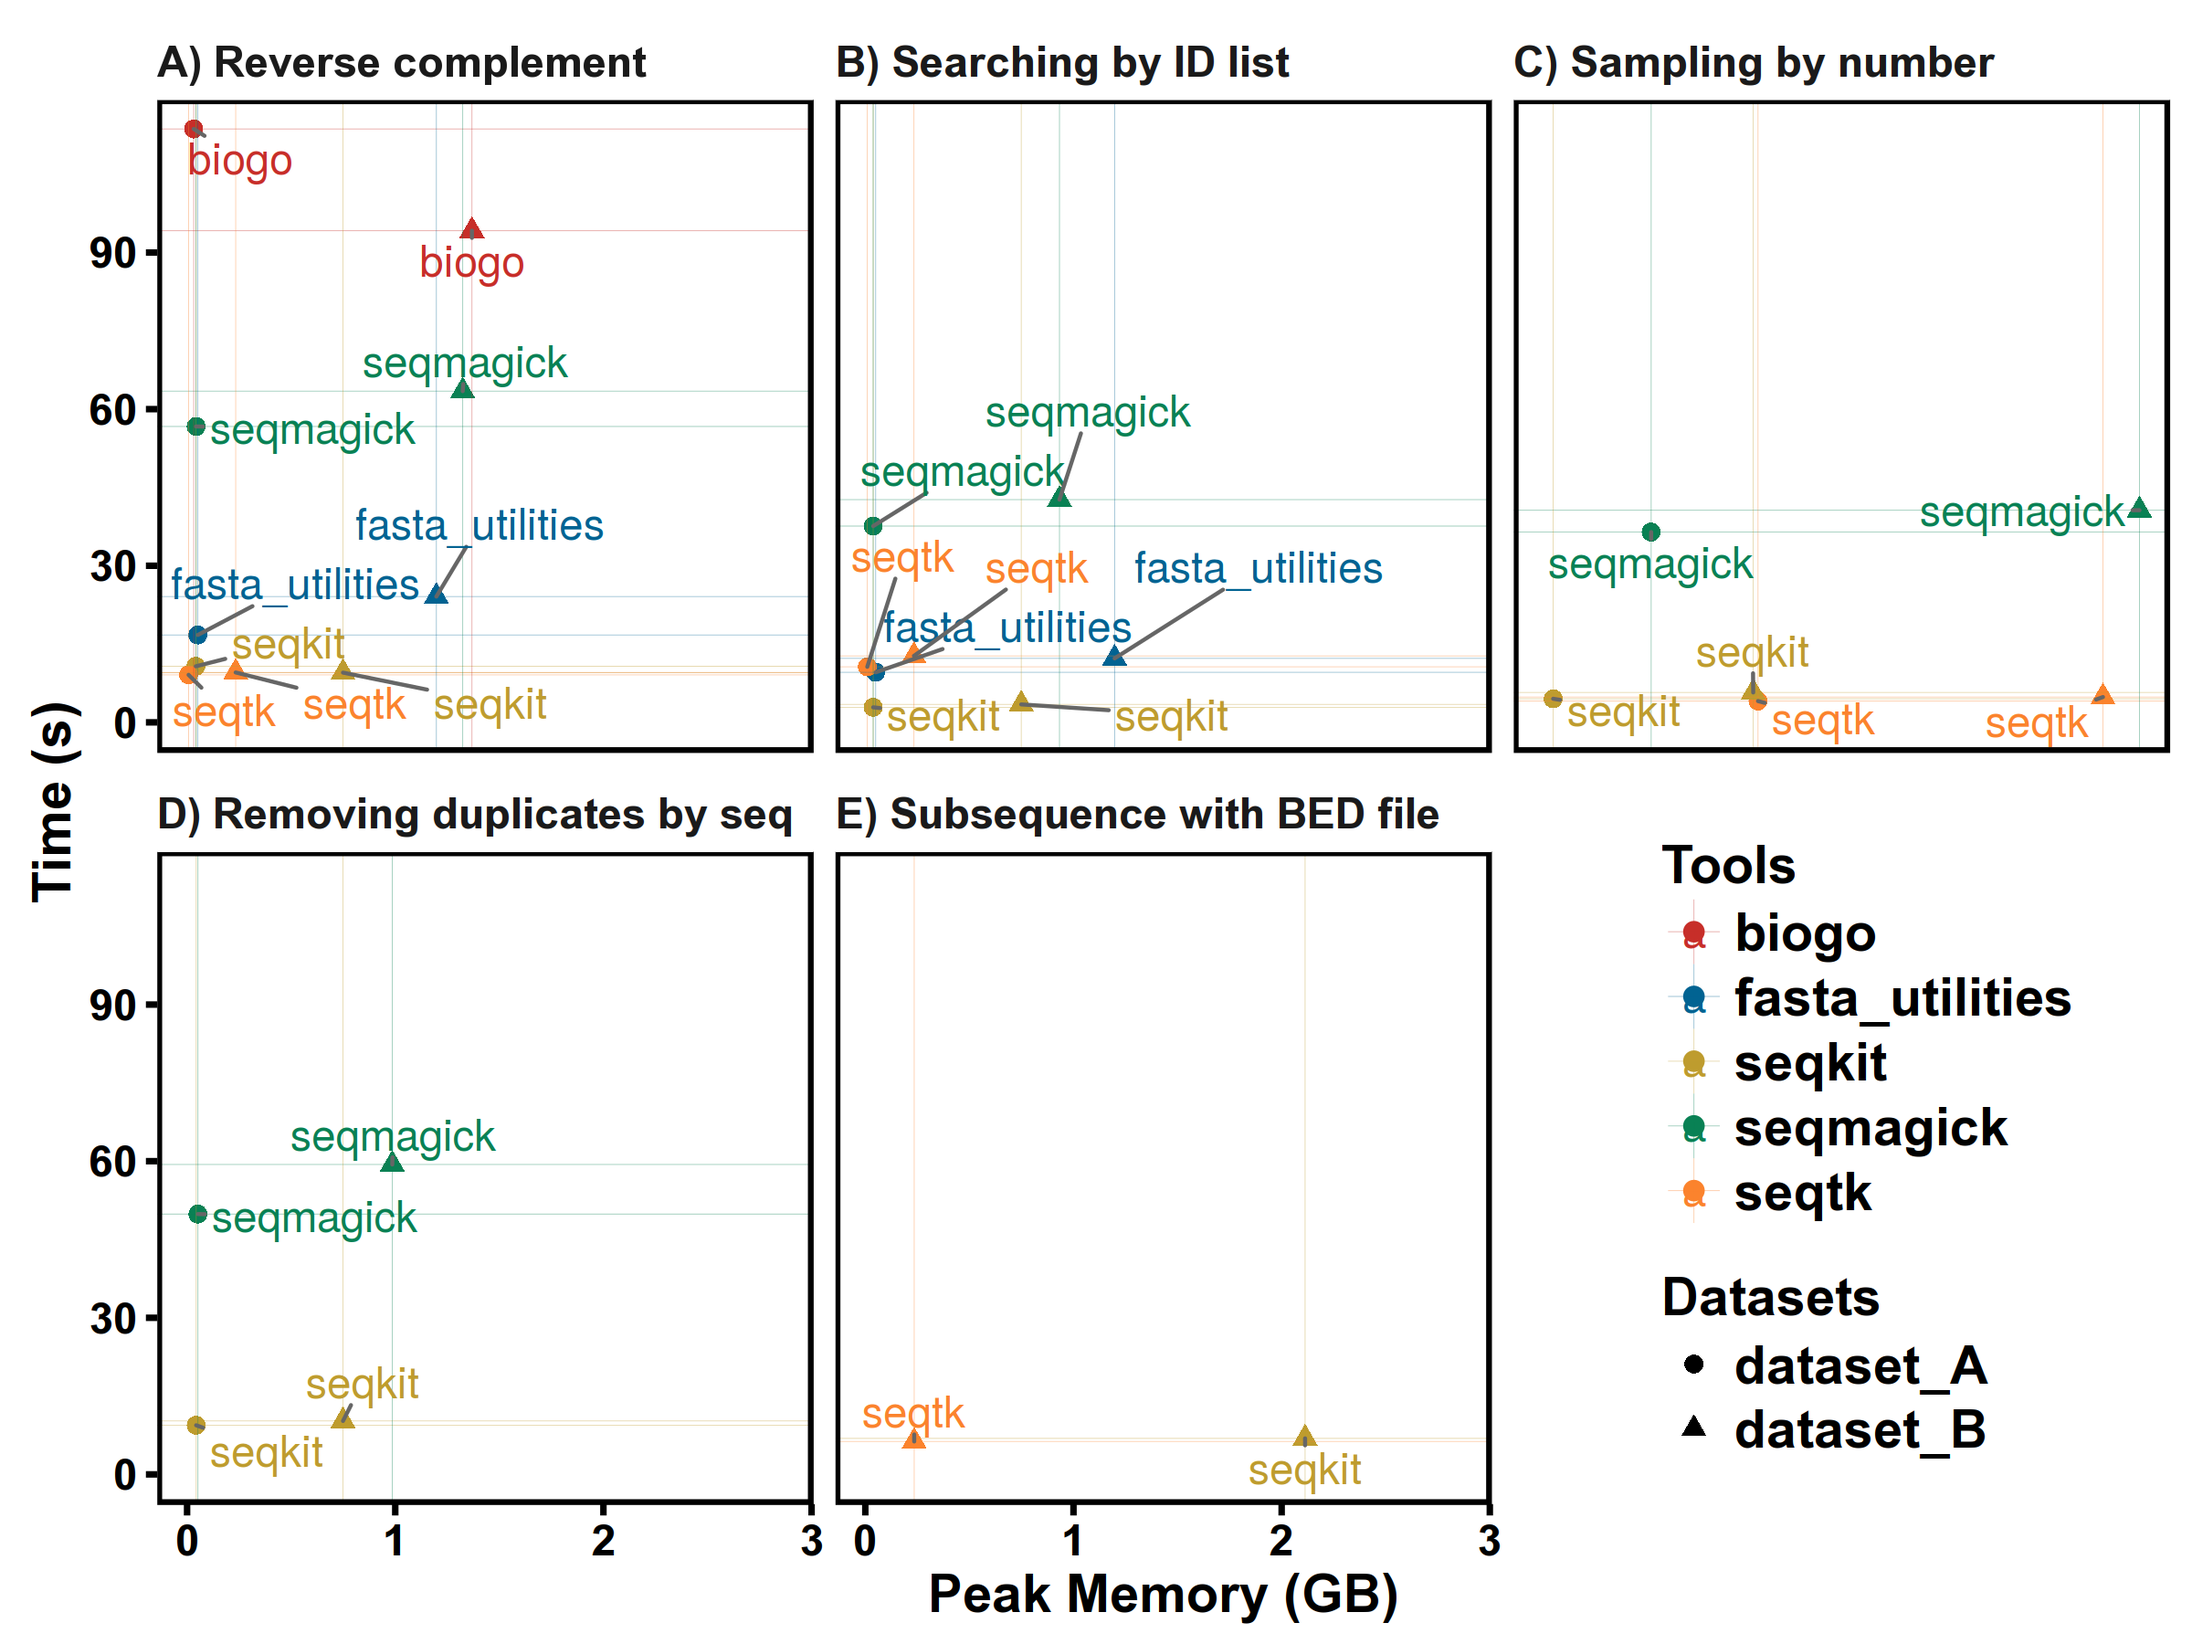
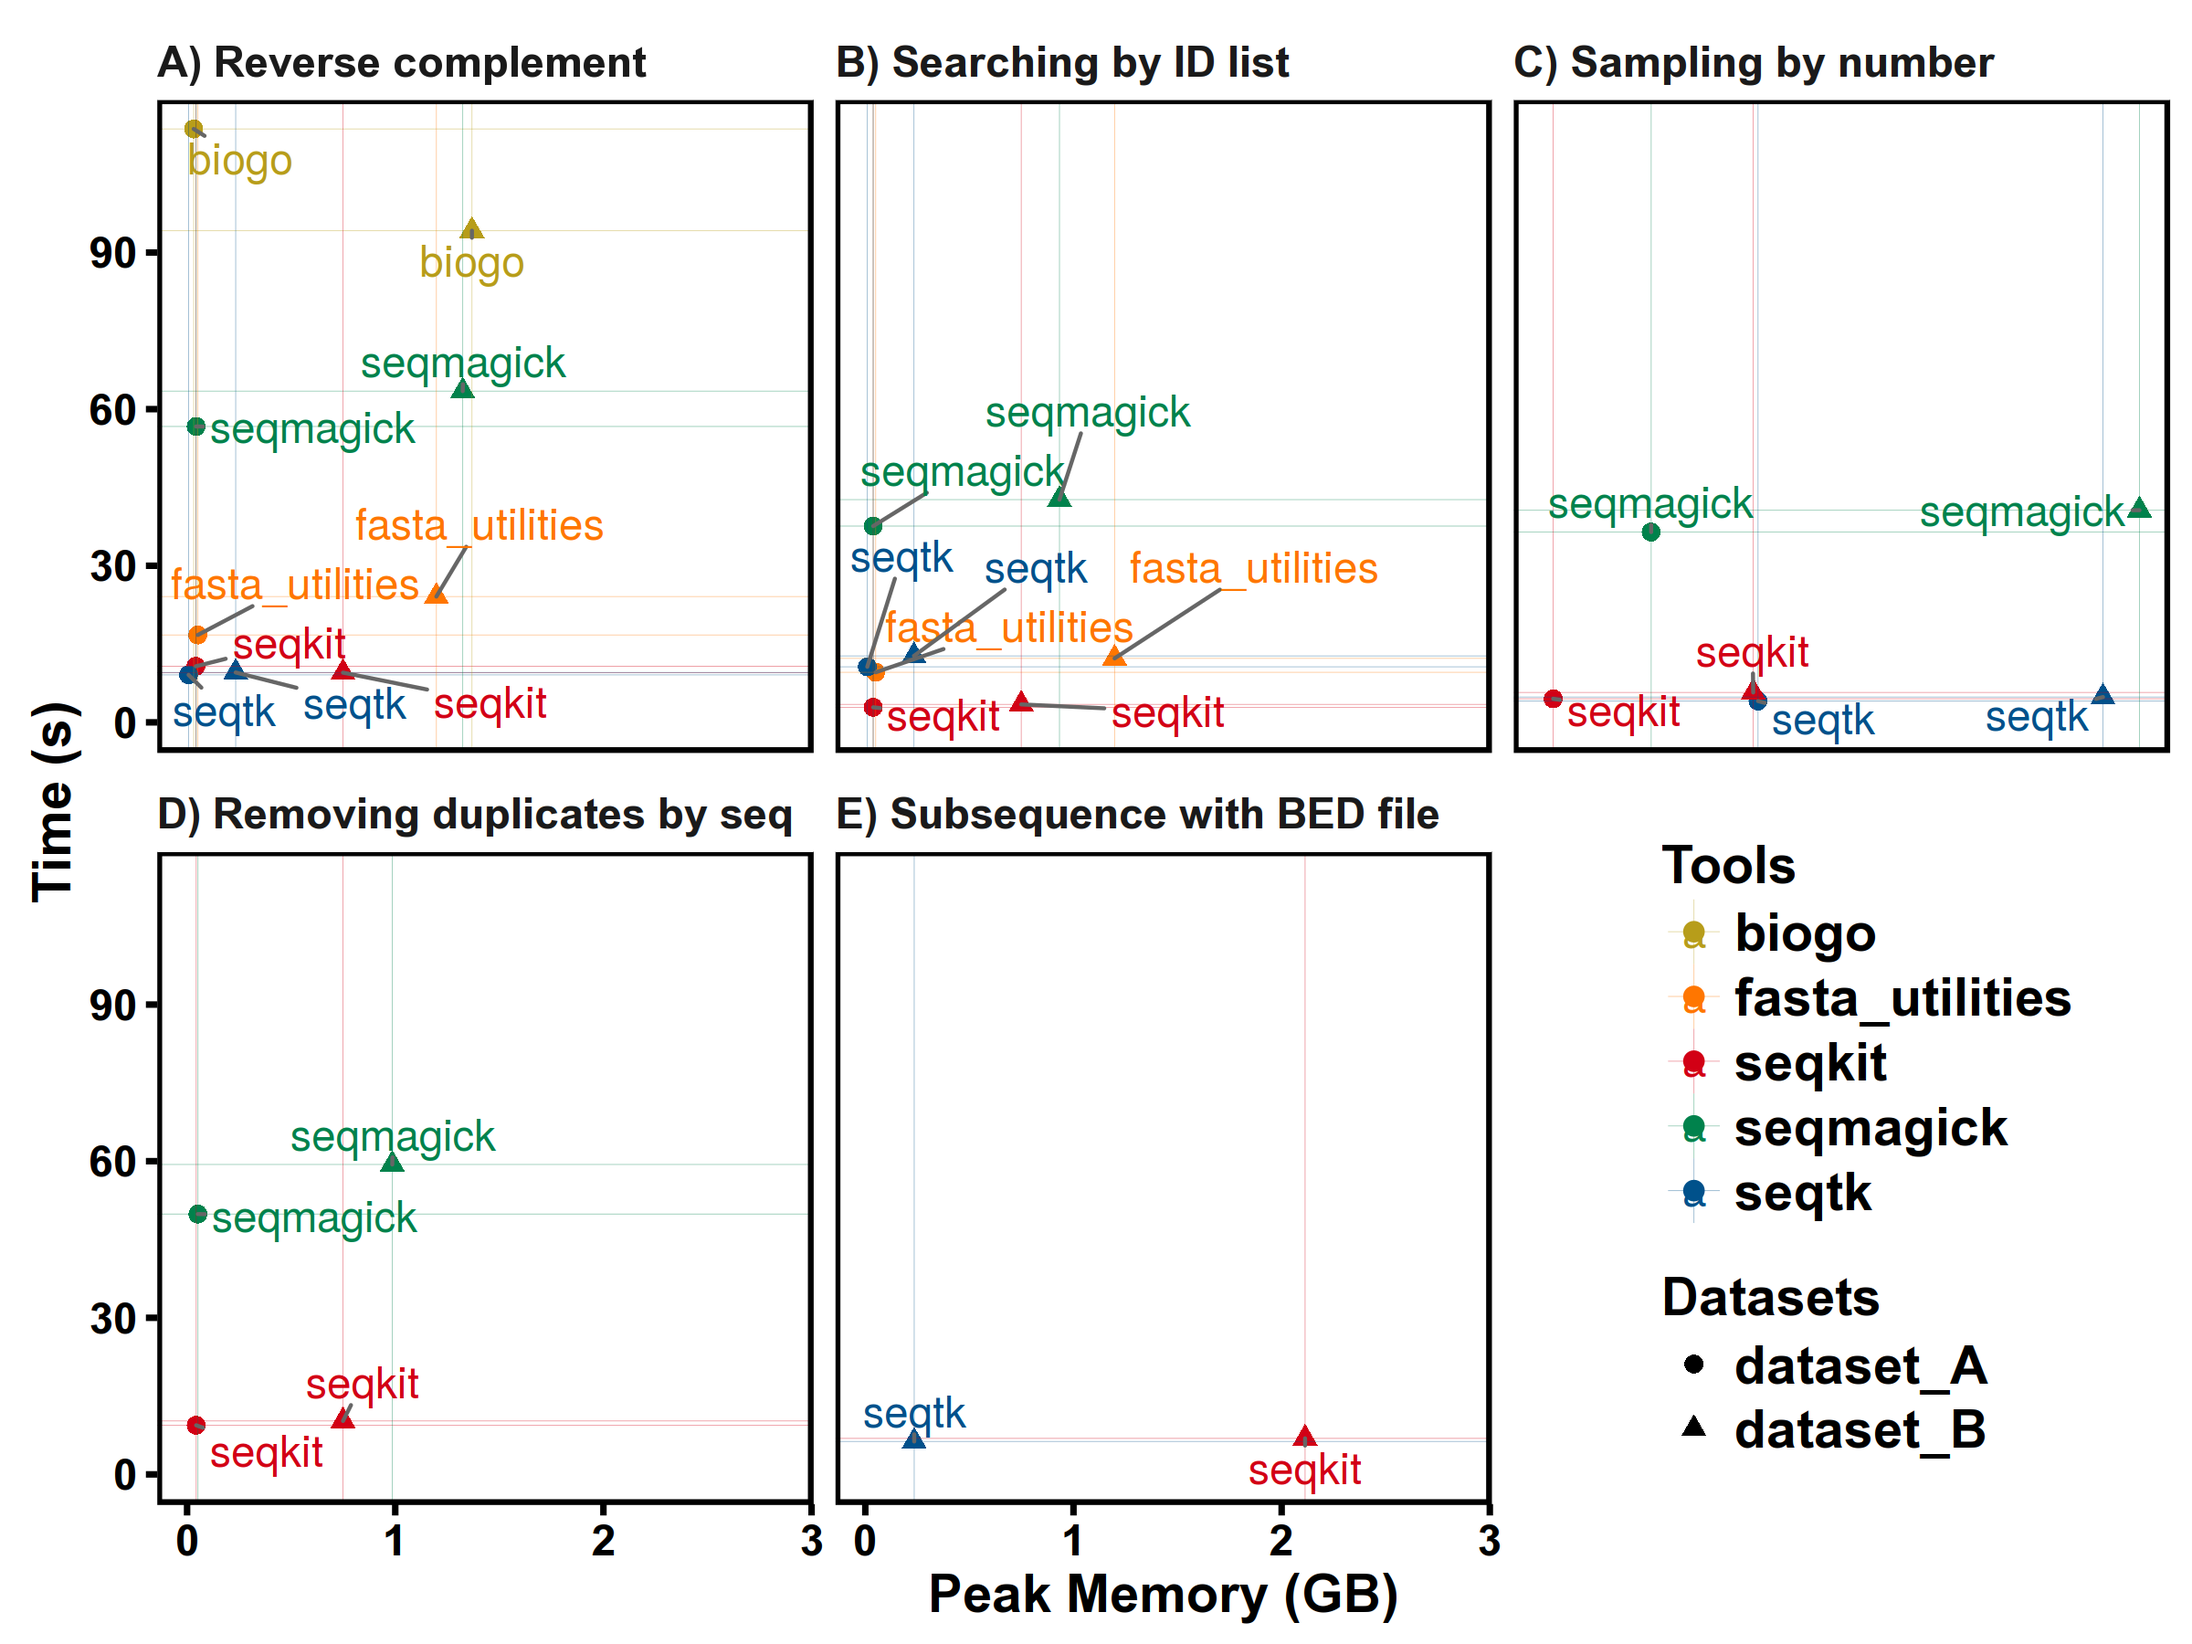
change color figure palette

diff --git a/index.html b/index.html
@@ -687,5 +687,5 @@ propose new functions or ask for help.</p>
 
 <!--
 MkDocs version : 0.15.3
-Build Date UTC : 2016-08-07 07:28:35.828532
+Build Date UTC : 2016-08-08 01:57:55.797817
 -->
